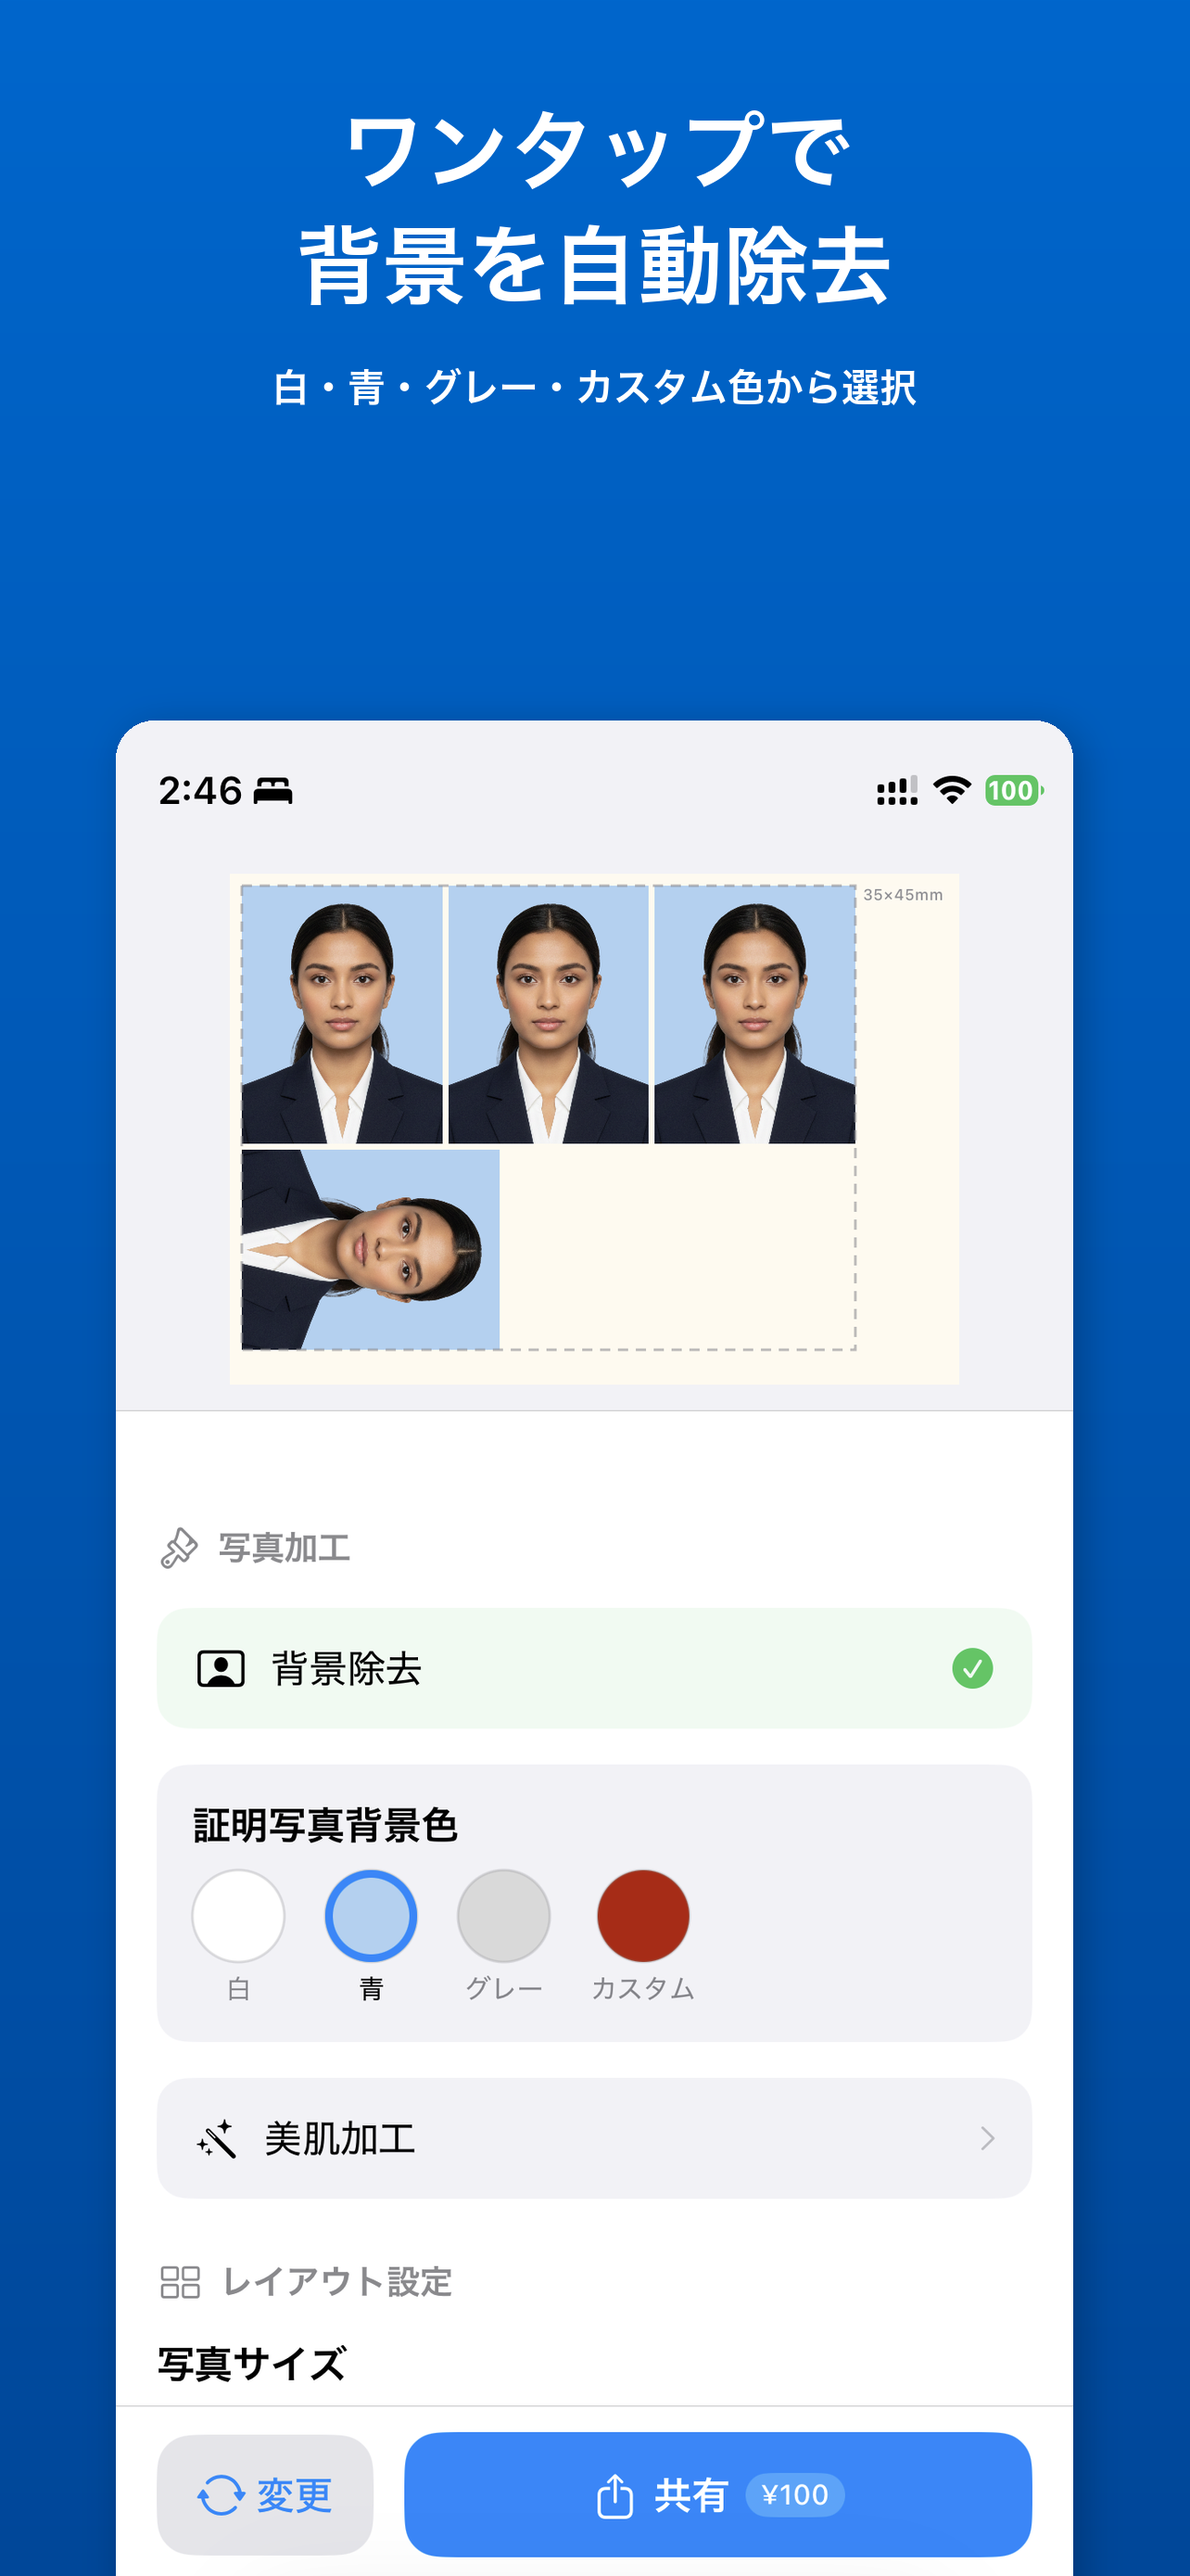
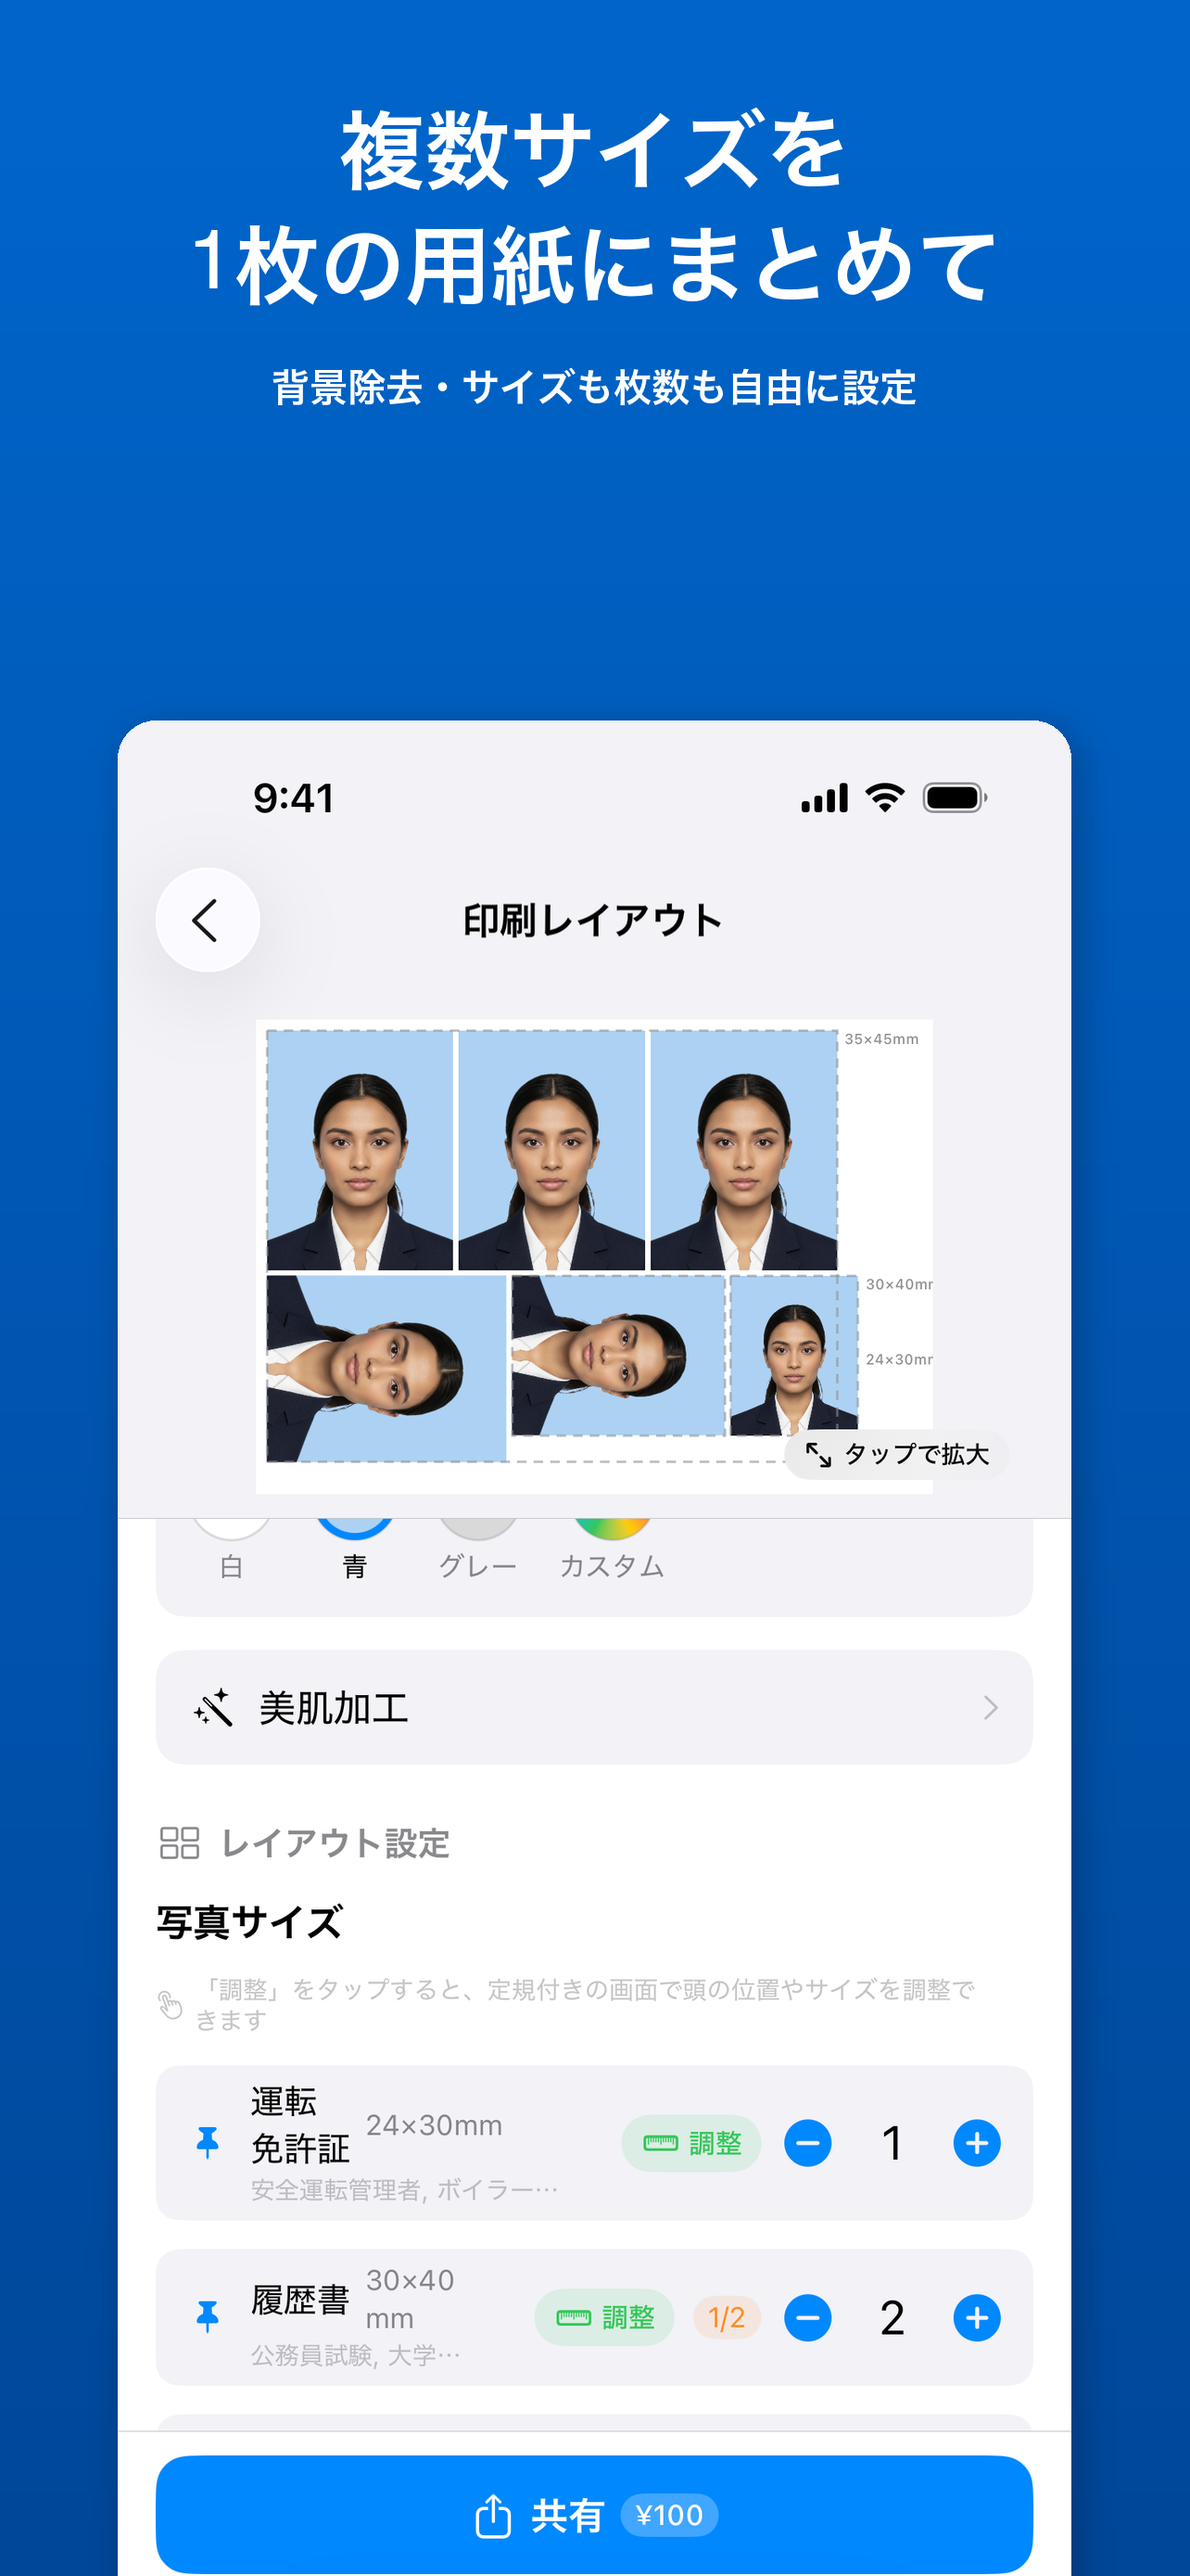
Shashin+: replace screenshots with 2.0 screens (modes, multi-size sheet, preview, crop ruler, single photo)

diff --git a/Shashin+/index.html b/Shashin+/index.html
@@ -315,12 +315,12 @@
     <section class="screenshots">
         <h2>アプリの画面</h2>
         <div class="screenshot-track">
-            <img src="screenshots/screenshots_6.5/01_screenshot.png" alt="背景除去" loading="lazy">
-            <img src="screenshots/screenshots_6.5/02_screenshot.png" alt="レイアウト" loading="lazy">
-            <img src="screenshots/screenshots_6.5/03_screenshot.png" alt="サイズ設定" loading="lazy">
-            <img src="screenshots/screenshots_6.5/04_screenshot.png" alt="背景色カスタマイズ" loading="lazy">
+            <img src="screenshots/screenshots_6.5/01_screenshot.png" alt="複数サイズを1枚に" loading="lazy">
+            <img src="screenshots/screenshots_6.5/02_screenshot.png" alt="モード選択" loading="lazy">
+            <img src="screenshots/screenshots_6.5/03_screenshot.png" alt="拡大プレビュー" loading="lazy">
+            <img src="screenshots/screenshots_6.5/04_screenshot.png" alt="定規付きトリミング" loading="lazy">
             <img src="screenshots/screenshots_6.5/05_screenshot.png" alt="美肌加工" loading="lazy">
-            <img src="screenshots/screenshots_6.5/06_screenshot.png" alt="履歴" loading="lazy">
+            <img src="screenshots/screenshots_6.5/06_screenshot.png" alt="写真1枚のみ書き出し" loading="lazy">
             <img src="screenshots/screenshots_6.5/07_screenshot.png" alt="料金" loading="lazy">
         </div>
     </section>

diff --git a/Shashin+/screenshots/generate.py b/Shashin+/screenshots/generate.py
@@ -5,7 +5,7 @@ MultiSize ID Photo - App Store Screenshot Generator
 Uses actual app screenshots to create App Store marketing images.
 
 Usage:
-  1. Place screenshots in ./原截图/ folder
+  1. Place screenshots in ./raw/ folder
   2. Run: python3 generate.py
   3. Find exports in ./screenshots_6.7/, ./screenshots_6.5/, etc.
 """
@@ -19,7 +19,7 @@ from PIL import Image, ImageDraw, ImageFont, ImageFilter
 # ============================================================
 
 SCRIPT_DIR = os.path.dirname(os.path.abspath(__file__))
-RAW_DIR = os.path.join(SCRIPT_DIR, "原截图")
+RAW_DIR = os.path.join(SCRIPT_DIR, "raw")
 
 # Font configuration (macOS)
 FONT_PATH = "/System/Library/Fonts/ヒラギノ角ゴシック W6.ttc"
@@ -55,49 +55,49 @@ SIZES = {
 # Screenshot definitions
 SCREENSHOTS = [
     {
-        "file": "IMG_4998.PNG",
-        "headline": "ワンタップで\n背景を自動除去",
-        "sub": "白・青・グレー・カスタム色から選択",
+        "file": "01_layout.png",
+        "headline": "複数サイズを\n1枚の用紙にまとめて",
+        "sub": "背景除去・サイズも枚数も自由に設定",
         "bg": ((0, 102, 204), (0, 71, 153)),
         "text_color": WHITE,
     },
     {
-        "file": "IMG_4999.PNG",
-        "headline": "9種類の証明写真を\n1枚にまとめて印刷",
-        "sub": "300DPI高画質・サイズ標注つきプレビュー",
+        "file": "02_entry.png",
+        "headline": "印刷用も申請用も\nこれひとつで",
+        "sub": "印刷レイアウト／写真1枚のみ を選ぶだけ",
         "bg": ((45, 85, 135), (30, 60, 100)),
         "text_color": WHITE,
     },
     {
-        "file": "IMG_5001.PNG",
-        "headline": "サイズも枚数も\n自由自在に設定",
-        "sub": "パスポート・履歴書・運転免許証 etc.",
+        "file": "03_preview.png",
+        "headline": "仕上がりを\n拡大して確認",
+        "sub": "300DPI高画質・ピンチで拡大",
         "bg": ((0, 122, 255), (0, 90, 200)),
         "text_color": WHITE,
     },
     {
-        "file": "IMG_5003.PNG",
-        "headline": "背景色を\n自由にカスタマイズ",
-        "sub": "プリセット＋カラーピッカーで自在に",
+        "file": "04_crop.png",
+        "headline": "定規とガイドで\n規格どおりに調整",
+        "sub": "頭頂・あごの位置を見ながらトリミング",
         "bg": ((200, 80, 50), (160, 55, 35)),
         "text_color": WHITE,
     },
     {
-        "file": "IMG_4869.PNG",
+        "file": "05_beauty.png",
         "headline": "プロ級の美肌加工を\n指でなぞるだけ",
         "sub": "美肌・クマ除去・シワ除去",
         "bg": ((90, 60, 150), (65, 40, 115)),
         "text_color": WHITE,
     },
     {
-        "file": "IMG_4870.PNG",
-        "headline": "履歴からいつでも\n無料で再利用",
-        "sub": "一度共有した写真は何度でも無料",
+        "file": "06_single.png",
+        "headline": "オンライン申請用に\n1枚だけ書き出し",
+        "sub": "600dpi JPEG・マイナンバー／パスポート申請に",
         "bg": ((34, 139, 87), (25, 105, 65)),
         "text_color": WHITE,
     },
     {
-        "file": "IMG_5002.PNG",
+        "file": "07_pricing.png",
         "headline": "写真館より\n断然おトク",
         "sub": "作成・プレビュー・美肌加工は無料",
         "bg": ((50, 50, 55), (35, 35, 38)),
